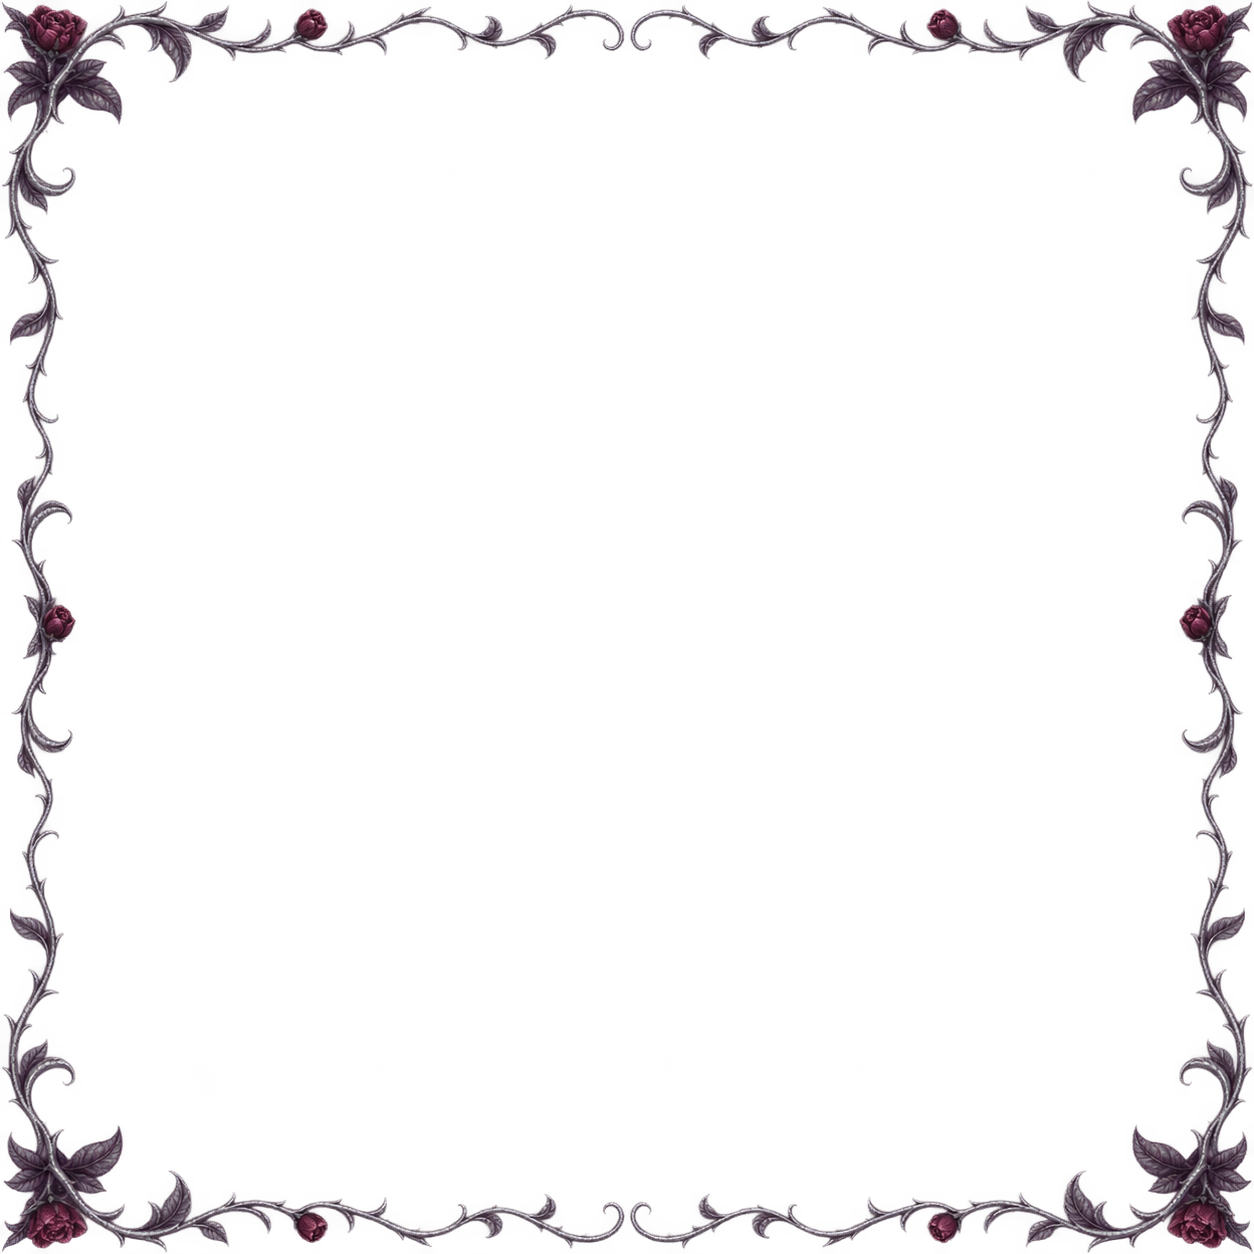
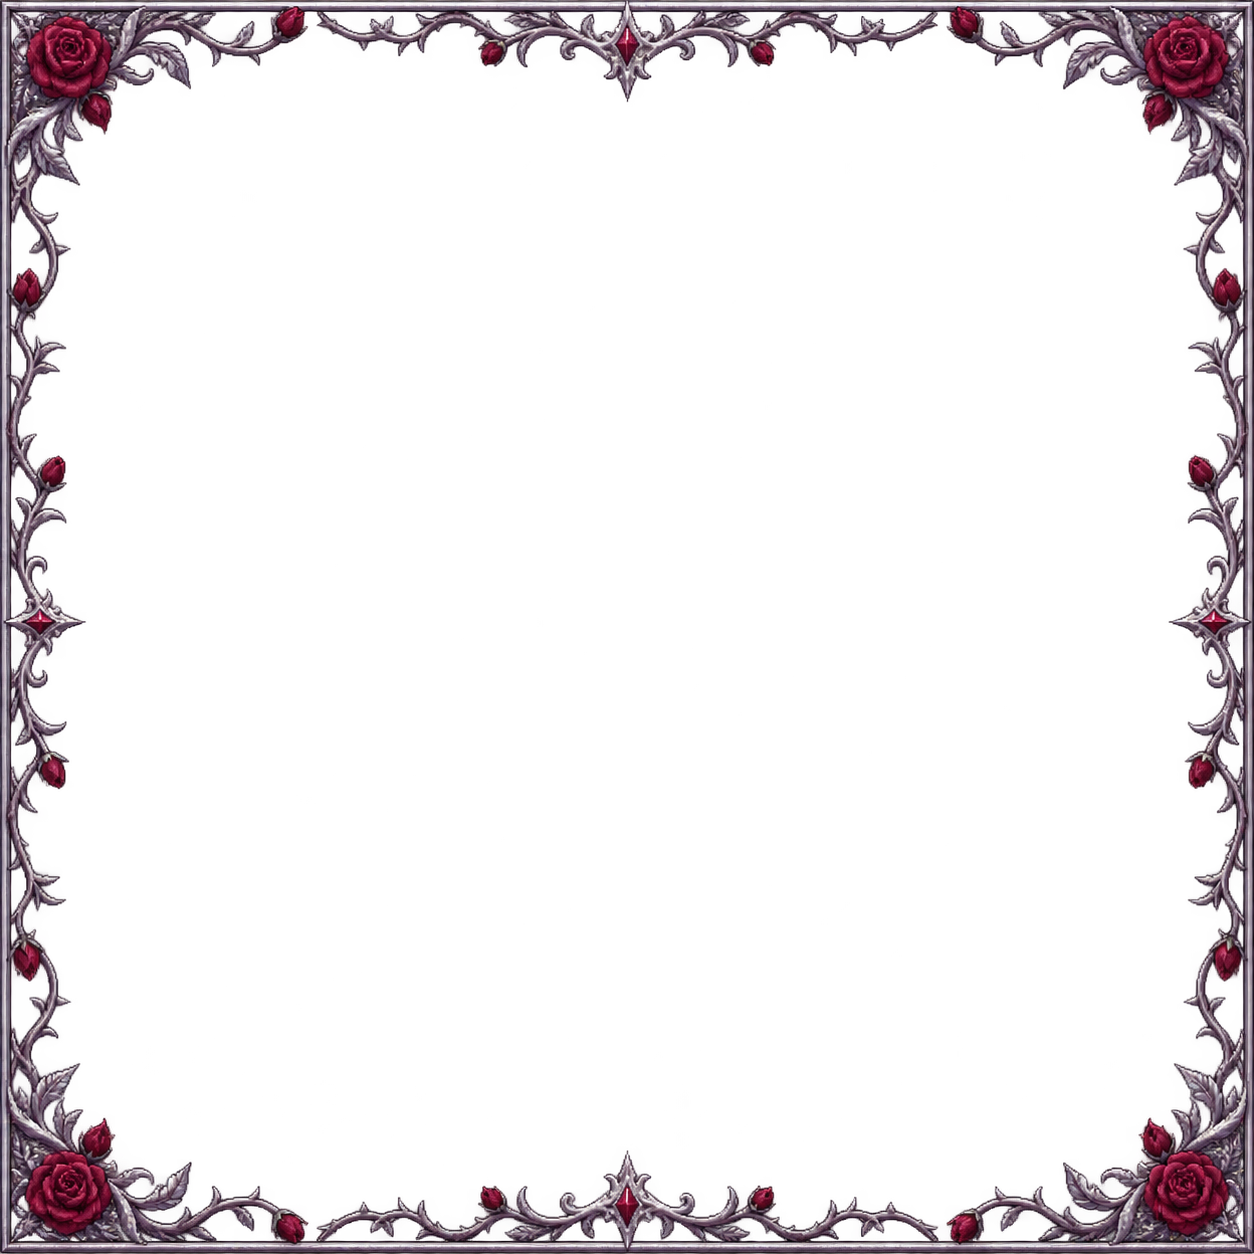
feat: Add purpose-built portrait frame and ornate caret artwork

Changed region(s): [[0.0, 0.0, 1.0, 1.0]]

diff --git a/src/app/scenery/catgirl.rs b/src/app/scenery/catgirl.rs
@@ -165,6 +165,11 @@ fn texture(
     let result = cached.unwrap_or_else(|| {
         let result = image::load_from_memory(bytes)
             .map(|image| {
+                let image = if image.width() > 1024 || image.height() > 1024 {
+                    image.thumbnail(1024, 1024)
+                } else {
+                    image
+                };
                 let rgba = image.to_rgba8();
                 let rgba = if trim {
                     trim_transparent_border(&rgba)
@@ -245,12 +250,42 @@ fn paint_inner_ornament(ui: &egui::Ui, portrait: Rect) {
     ) else {
         return;
     };
-    // Crop the outer stems at the portrait edge so the branches grow inward from the border.
-    let growth = (portrait.width() * 0.02).clamp(6.0, 9.0);
     ui.painter()
         .with_clip_rect(ui.clip_rect().intersect(portrait))
-        .add(ornament_mesh(texture.id(), portrait.expand(growth)));
-    crate::app::rendering::gothic::portrait_vines(ui.painter(), portrait);
+        .add(ornament_mesh(texture.id(), portrait));
+}
+
+fn paint_caret_ornament(ui: &egui::Ui, rect: Rect) {
+    let Some(texture) = texture(
+        ui.ctx(),
+        "caret-ornament",
+        include_bytes!("../../../assets/themes/midnight-neko/caret-ornament.png"),
+        true,
+    ) else {
+        return;
+    };
+    let height = rect.height() - 4.0;
+    let width = rect.width() * 0.4;
+    let painter = ui.painter().with_clip_rect(ui.clip_rect().intersect(rect));
+    for right in [false, true] {
+        let target = Rect::from_min_size(
+            egui::pos2(
+                if right {
+                    rect.right() - width
+                } else {
+                    rect.left()
+                },
+                rect.center().y - height / 2.0,
+            ),
+            egui::vec2(width, height),
+        );
+        let uv = if right {
+            Rect::from_min_max(egui::pos2(0.5, 0.0), egui::pos2(0.0, 1.0))
+        } else {
+            Rect::from_min_max(Pos2::ZERO, egui::pos2(0.5, 1.0))
+        };
+        painter.image(texture.id(), target, uv, Color32::WHITE);
+    }
 }
 
 fn paint(ui: &egui::Ui, rect: Rect, name: &str, bytes: &[u8]) {
@@ -514,7 +549,7 @@ fn show_toggle(ui: &mut egui::Ui, collapsed: bool) {
         rect.top(),
         egui::Stroke::new(1.0_f32, palette.metal.gamma_multiply(0.35)),
     );
-    crate::app::rendering::gothic::caret_scrollwork(painter, rect);
+    paint_caret_ornament(ui, rect);
     let direction = if collapsed { -1.0 } else { 1.0 };
     painter.add(egui::Shape::line(
         vec![
@@ -707,12 +742,10 @@ mod tests {
     #[test]
     fn ornament_is_mirrored_and_stays_inside_the_portrait_border() {
         let portrait = Rect::from_min_size(Pos2::ZERO, egui::vec2(288.0, 288.0));
-        let growth = portrait.expand(6.0);
-        let mesh = ornament_mesh(egui::TextureId::default(), growth);
-        assert_eq!(mesh.calc_bounds(), growth);
-        assert!(growth.contains_rect(portrait));
+        let mesh = ornament_mesh(egui::TextureId::default(), portrait);
+        assert_eq!(mesh.calc_bounds(), portrait);
         for vertex in &mesh.vertices {
-            assert!(growth.contains(vertex.pos));
+            assert!(portrait.contains(vertex.pos));
             let mirrored = mesh
                 .vertices
                 .iter()

diff --git a/src/app/rendering/gothic.rs b/src/app/rendering/gothic.rs
@@ -311,76 +311,6 @@ fn filigree(painter: &egui::Painter, origin: Pos2, direction: Vec2, color: Color
     }
 }
 
-pub fn portrait_vines(painter: &egui::Painter, rect: Rect) {
-    let painter = painter.with_clip_rect(painter.clip_rect().intersect(rect));
-    let silver = Palette::of_ctx(painter.ctx()).metal.gamma_multiply(0.55);
-    for (origin, along, inward, length) in [
-        (rect.left_top(), Vec2::X, Vec2::Y, rect.width()),
-        (rect.right_top(), Vec2::Y, -Vec2::X, rect.height()),
-        (rect.right_bottom(), -Vec2::X, -Vec2::Y, rect.width()),
-        (rect.left_bottom(), -Vec2::Y, Vec2::X, rect.height()),
-    ] {
-        let step = length / 6.0;
-        for index in 0..6 {
-            let root = origin + along * (step * index as f32) + inward * 0.5;
-            painter.add(egui::epaint::CubicBezierShape::from_points_stroke(
-                [
-                    root,
-                    root + along * (step / 3.0) + inward * 10.0,
-                    root + along * (step * 2.0 / 3.0) + inward * 10.0,
-                    root + along * step,
-                ],
-                false,
-                Color32::TRANSPARENT,
-                Stroke::new(0.8_f32, silver),
-            ));
-        }
-    }
-}
-
-pub fn caret_scrollwork(painter: &egui::Painter, rect: Rect) {
-    let painter = painter.with_clip_rect(painter.clip_rect().intersect(rect));
-    let palette = Palette::of_ctx(painter.ctx());
-    let silver = palette.metal.gamma_multiply(0.7);
-    for side in [-1.0, 1.0] {
-        let root = egui::pos2(
-            if side < 0.0 {
-                rect.left()
-            } else {
-                rect.right()
-            },
-            rect.center().y,
-        );
-        let at = |x: f32, y: f32| root + egui::vec2(-side * x, y);
-        for vertical in [-1.0, 1.0] {
-            painter.add(egui::epaint::CubicBezierShape::from_points_stroke(
-                [
-                    at(0.0, 0.0),
-                    at(8.0, vertical * 8.0),
-                    at(24.0, vertical * 8.0),
-                    at(32.0, 0.0),
-                ],
-                false,
-                Color32::TRANSPARENT,
-                Stroke::new(1.0_f32, silver),
-            ));
-            painter.add(egui::epaint::CubicBezierShape::from_points_stroke(
-                [
-                    at(32.0, 0.0),
-                    at(42.0, -vertical * 6.0),
-                    at(52.0, -vertical * 6.0),
-                    at(58.0, 0.0),
-                ],
-                false,
-                Color32::TRANSPARENT,
-                Stroke::new(0.8_f32, silver),
-            ));
-            diamond(&painter, at(15.0, vertical * 5.0), 1.5, silver);
-        }
-        diamond(&painter, at(32.0, 0.0), 2.5, palette.accent);
-    }
-}
-
 pub fn pattern(painter: &egui::Painter, rect: Rect) {
     let palette = Palette::of_ctx(painter.ctx());
     let strength = if painter.ctx().global_style().visuals.dark_mode {

diff --git a/SPECIFICATION.md b/SPECIFICATION.md
@@ -60,8 +60,8 @@ Provide:
   - Enable automatic backups: Energetic; disable: Pouting; restore confirmation: Question; restored: Happy; protect a backup: Dominant.
   - New job: Happy; Check now: Energetic; Remove job: Pouting; Settings: Curious; select job: Waiting; Dark mode: Happy; Light mode: Sleepy.
 - When Saya enters her in-love expression, three ruby hearts briefly rise and fade inside the sidebar frame. Holding the expression does not replay the effect.
-- Saya's bottom-anchored companion panel uses one continuous outer silver frame around a square portrait, plain letterbox and attached caret strip. Keep the outer border plain, with a symmetrical silver-vine/burgundy-rose inner border rooted directly at the portrait edges, growing inward and clipped clear of the shared frame and divider. No corner ornaments may overlap the dialogue or caret strip. Keep one divider beneath the portrait and no gaps between sections. Show it on an empty start screen; scroll jobs above it.
-  - The strip contains a centered downward/upward caret and mirrored silver/burgundy scrollwork rooted at its side borders, clipped inside the strip. It stays at the same bottom position in both states. Minimize/maximize with a reversible 240 ms eased slide and fade, reclaiming job-list space smoothly. Start expanded on every launch.
+- Saya's bottom-anchored companion panel uses one continuous outer silver frame around a square portrait, plain letterbox and attached caret strip. Keep the outer border plain, with a purpose-built symmetrical portrait frame with straight silver edge rails and inward-growing vines and burgundy roses, clipped clear of the shared frame and divider. No corner ornaments may overlap the dialogue or caret strip. Keep one divider beneath the portrait and no gaps between sections. Show it on an empty start screen; scroll jobs above it.
+  - The strip contains a centered downward/upward caret and rich mirrored silver scrolls, burgundy roses and ruby pendants rooted at its side borders, clipped inside the strip. It stays at the same bottom position in both states. Minimize/maximize with a reversible 240 ms eased slide and fade, reclaiming job-list space smoothly. Start expanded on every launch.
 - Midnight Neko uses Saya's ornate Kurobane family emblem beside the app and job names at 56 and 80 logical pixels respectively. The 72-pixel job status heads retain the same reference colors in both modes and use separately rendered play and pause badges.
 - Midnight Neko job cards use distinct Saya heads for jobs with automatic backups enabled (open eyes and small fangs visible beneath closed lips with a play badge) or disabled (sleeping Saya with a pause badge). Align the head with the lower card border and keep the badge inside it.
 - Midnight Neko sidebar clicks select among all 26 refined non-neutral Saya expressions without immediate repeats. Direct clicks switch immediately, including while hovered. The welcome figure stays static and does not react to clicks.

diff --git a/assets/themes/midnight-neko/README.md b/assets/themes/midnight-neko/README.md
@@ -44,10 +44,13 @@ Minimizing and maximizing use a 240 ms eased slide and fade. The caret strip
 stays fixed at the bottom, while the job list smoothly gains or gives up space.
 The animation can reverse without jumping. Saya starts expanded on every launch.
 
-`portrait-ornament.png` was generated with built-in imagegen. Transparent outer
-padding is trimmed at texture upload, then the top-left quadrant is reflected
-across both axes for exact symmetry. The ornament is enlarged beyond the portrait and cropped at its edges. Fine
-mirrored vine stems start directly at the border and arch inward to connect the
-leaf and rose detailing. The visible artwork remains clipped inside the
-portrait, clear of the dialogue and caret strip.
-See `portrait-ornament.prompt.txt` for the prompt.
+`portrait-ornament.png` is a purpose-built transparent frame with straight edge
+rails and inward-growing silver vines and burgundy roses. It is drawn edge-to-edge
+inside the portrait, without enlargement or floating margins. One quadrant is
+reflected across both axes for exact symmetry.
+
+`caret-ornament.png` adds richer silver scrolls, roses and ruby pendants inside the
+min/max pane. Its left flourish is reflected on the right, leaving the central
+caret unobstructed. Both assets are clipped to their own panes and were made with
+built-in imagegen; their adjacent `.prompt.txt` files record the prompts. Textures
+larger than 1024 pixels are reduced when loaded for GPU compatibility.
